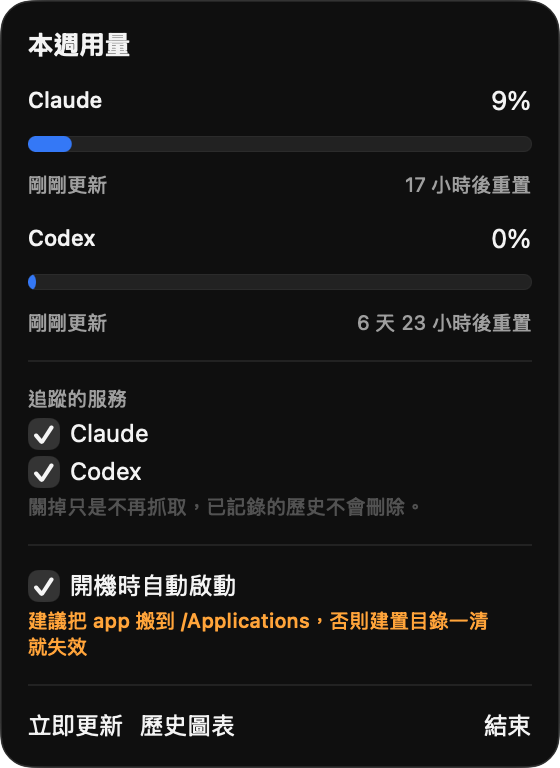
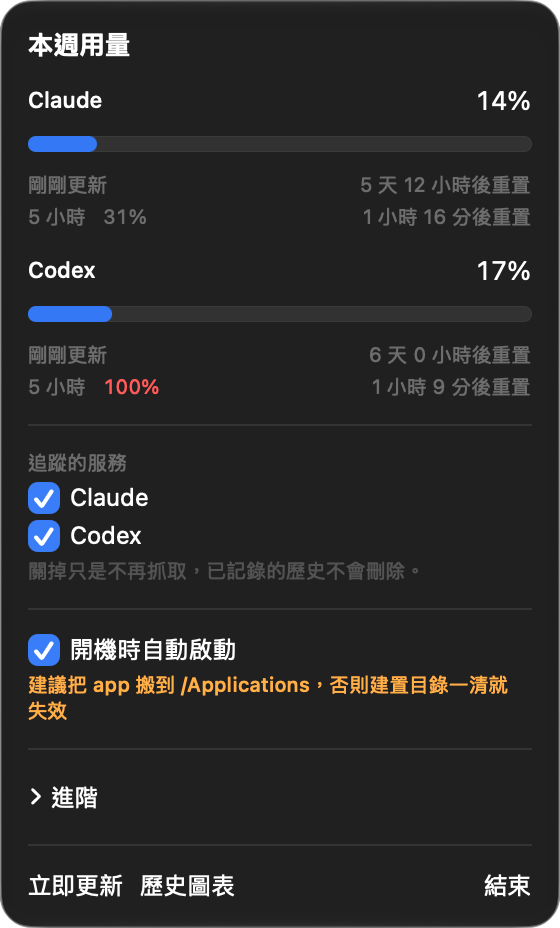
docs: 更新 README 的選單與歷史圖表截圖
選單截圖補上 5 小時窗那一行；歷史圖表截圖換成新文案的版本
（舊圖的說明還是「橘色大點」「這一小時」）。替代文字跟著更新。
快取分頁的介面沒變，cache.png 不動。

Changed region(s): [[0.0, 0.0, 1.0, 1.0]]

diff --git a/README.en.md b/README.en.md
@@ -14,8 +14,8 @@ Every raw sample is kept permanently in a local SQLite database, so you can look
 > UI labels below are quoted in Chinese with a translation, so you can match them on screen.
 
 <p>
-  <img src="docs/images/menu.png" width="280" alt="Menu bar popover: this week's usage for both services, reset countdown, tracking toggles">
-  <img src="docs/images/usage.png" width="480" alt="Usage history: daily line chart; gaps mean no samples">
+  <img src="docs/images/menu.png" width="280" alt="Menu bar popover: weekly and 5-hour usage for both services, each with its reset countdown, tracking toggles">
+  <img src="docs/images/usage.png" width="480" alt="Usage history: hourly line chart; gaps mean no samples">
 </p>
 
 Click the menu bar icon for this week's usage, the 5-hour window's usage, and when each resets. "歷史圖表" (History) lets you look back by hour / day / week;

diff --git a/README.md b/README.md
@@ -11,8 +11,8 @@
 > 個人專案，不保證維護；請自行評估是否符合你所用服務的使用條款。
 
 <p>
-  <img src="docs/images/menu.png" width="280" alt="menu bar 點開：兩家本週用量、重置倒數、追蹤開關">
-  <img src="docs/images/usage.png" width="480" alt="用量歷史：日粒度折線圖，斷開處代表沒有取樣">
+  <img src="docs/images/menu.png" width="280" alt="menu bar 點開：兩家本週用量與 5 小時窗用量、各自的重置倒數、追蹤開關">
+  <img src="docs/images/usage.png" width="480" alt="用量歷史：小時粒度折線圖，斷開處代表沒有取樣">
 </p>
 
 點開 menu bar 圖示看本週用量、5 小時窗用量與兩者的重置倒數；「歷史圖表」可按小時／日／週回溯，
